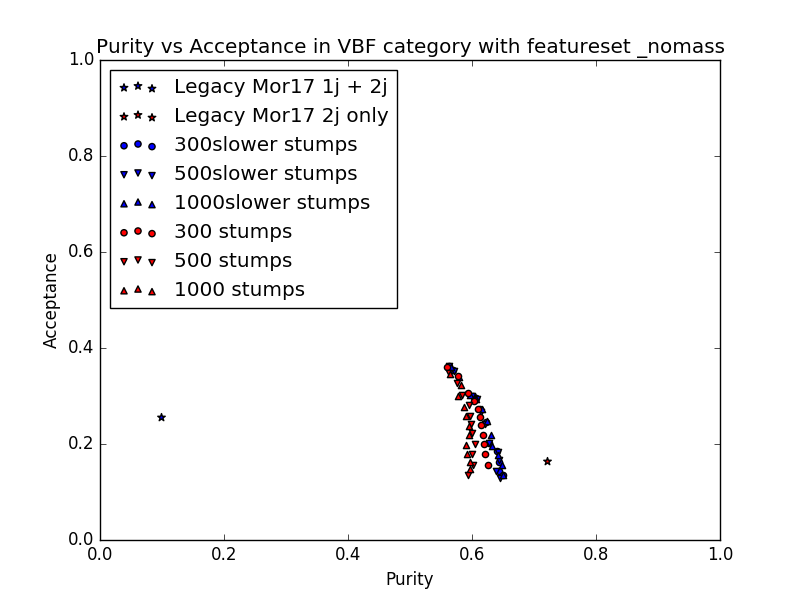
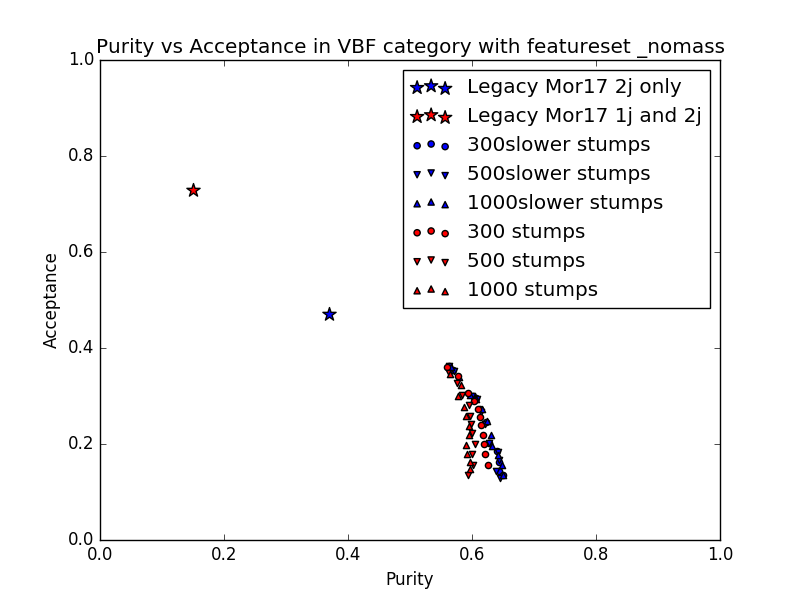
Legacy by hand

Changed region(s): [[0.125, 0.09, 0.9062, 0.54], [0.1875, 0.69, 0.2188, 0.72]]

diff --git a/core/roc_curve.py b/core/roc_curve.py
@@ -44,14 +44,12 @@ def custom_roc():
     p.ylabel('Acceptance')
     p.title('Purity vs Acceptance in VBF category with featureset ' + extension)
 
-    acceptance = np.loadtxt('saves/metrics/legacy_acceptance_fuse.txt')[1]
-    purity = np.loadtxt('saves/metrics/legacy_purity_fuse.txt')[1]
-    #        purities = [np.mean(np.loadtxt('saves/metrics/' + name + extension + '_purity.txt')[1:]) for name in plop]
-    #        acceptances = [np.mean(np.loadtxt('saves/metrics/' + name + extension + '_acceptance.txt')[1:]) for name in plop]
-    p.scatter(purity, acceptance, marker='*', c='b', s=32, label='Legacy Mor17 1j + 2j')
-    acceptance = np.loadtxt('saves/metrics/legacy_acceptance_2j.txt')[1]
-    purity = np.loadtxt('saves/metrics/legacy_purity_2j.txt')[1]
-    p.scatter(purity, acceptance, marker='*', c='r', s=32, label='Legacy Mor17 2j only')
+    acceptance = 0.47
+    purity = 0.37
+    p.scatter(purity, acceptance, marker='*', c='b', s=(10)**2, label='Legacy Mor17 2j only')
+    acceptance = 0.73
+    purity = 0.15
+    p.scatter(purity, acceptance, marker='*', c='r', s=(10)**2, label='Legacy Mor17 1j and 2j')
 
     for n_est, symbol in zip([300, 500, 1000], ['o', 'v', '^']):
         plop = [model for model in slow_stumps_dict if (model.split('_')[2] == str(n_est))]
@@ -81,7 +79,7 @@ def custom_roc():
 #        acceptances = [np.mean(np.loadtxt('saves/metrics/' + name + extension + '_acceptance.txt')) for name in plop]
 #        p.scatter(purities, acceptances, marker=symbol, c='g', label=str(n_est) + ' logregs')
 
-    p.legend(loc=2)
+    p.legend(loc=1)
     p.savefig('saves/figs/full_roc')
     p.show()
 

diff --git a/core/legacy.py b/core/legacy.py
@@ -330,7 +330,7 @@ def generate_metrics():
     correct_in_cat = [0 for _ in range(nb_categories+1)]
     wrong_in_cat = [0 for _ in range(nb_categories+1)]
     
-    real_cats = [0, 0, 1, 2, 3, 4, 5]
+    real_cats = [0, 1, 1, 2, 3, 4, 5]
     for shitty_cat in range(nb_categories+1):
         correct_in_cat[shitty_cat] = contents_table[shitty_cat, real_cats[shitty_cat]]
         wrong_in_cat[shitty_cat] = np.sum(contents_table[shitty_cat, :]) - correct_in_cat[shitty_cat] 
